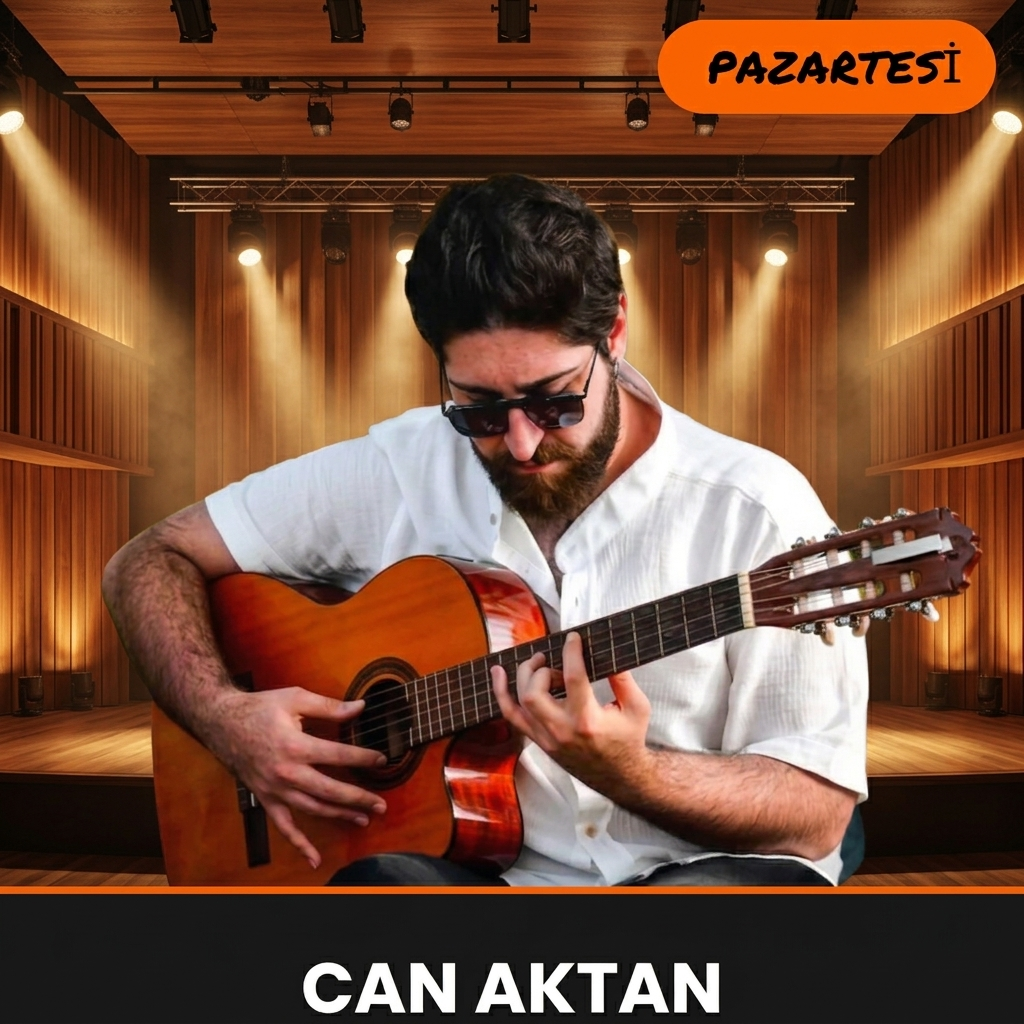
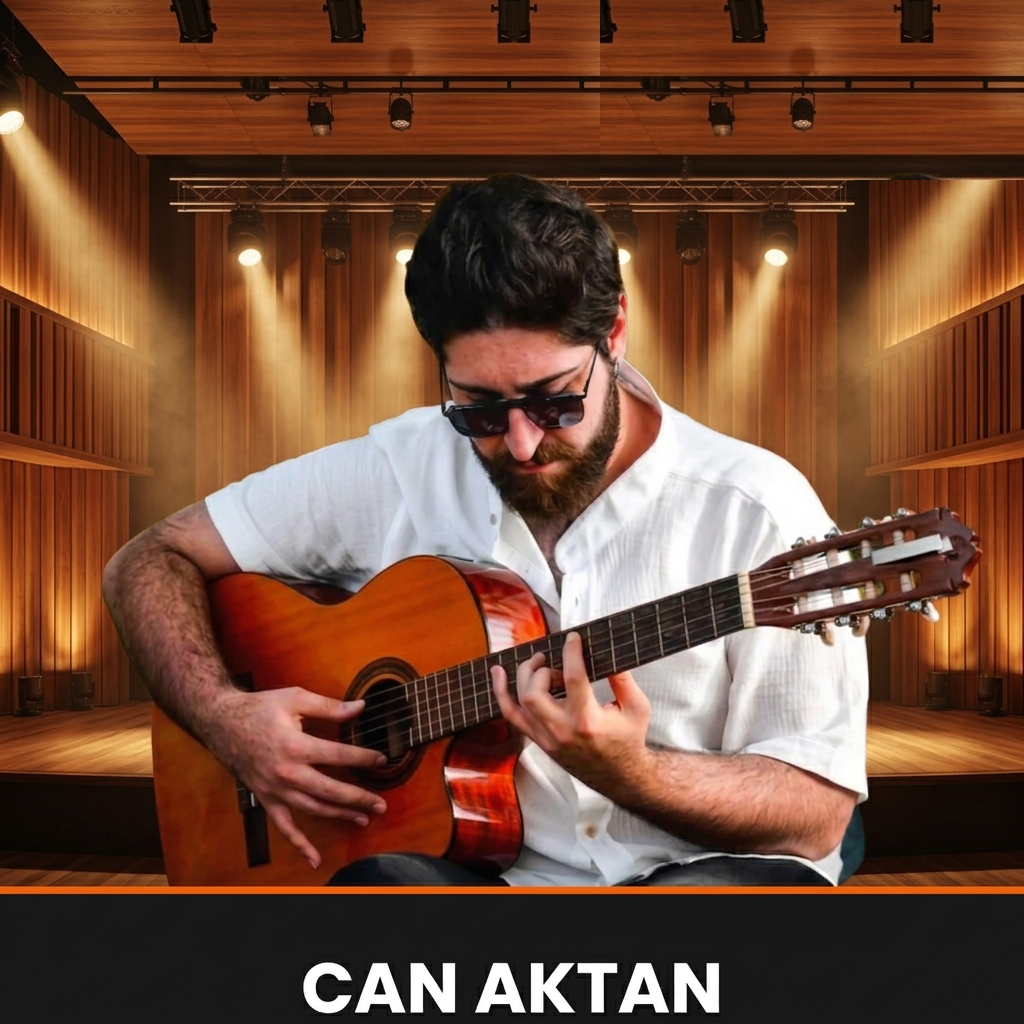
fix: pixel-erase orange tag in performer1.png, clean mask divs

Changed region(s): [[0.5625, 0.0, 1.0, 0.1875]]

diff --git a/style.css b/style.css
@@ -667,19 +667,7 @@ input, textarea, select {
     position: relative;
 }
 
-/* Mask to cover original cut-off Pazartesi tag in image */
-.performer-card-1-mask {
-    position: absolute;
-    top: -5px;
-    right: -5px;
-    width: 150px;
-    height: 65px;
-    background: linear-gradient(135deg, rgba(16, 11, 8, 0.98) 50%, rgba(16, 11, 8, 0) 100%);
-    z-index: 4;
-    border-top-right-radius: 20px;
-    filter: blur(4px); /* Fuzzes out the borders so it is completely unnoticeable */
-    pointer-events: none;
-}
+
 
 /* Crisp centered HTML day badge overlay */
 .performer-html-badge {

diff --git a/index.html b/index.html
@@ -159,7 +159,6 @@
                 <div class="performer-card glass-card-only-img">
                     <div class="performer-img-container">
                         <div class="performer-glow glow-gold"></div>
-                        <div class="performer-card-1-mask"></div>
                         <span class="performer-html-badge">PAZARTESİ</span>
                         <img src="assets/performer1.png" alt="Ali Rıza & Ekibi - Pazartesi & Çarşamba" class="performer-img">
                     </div>
